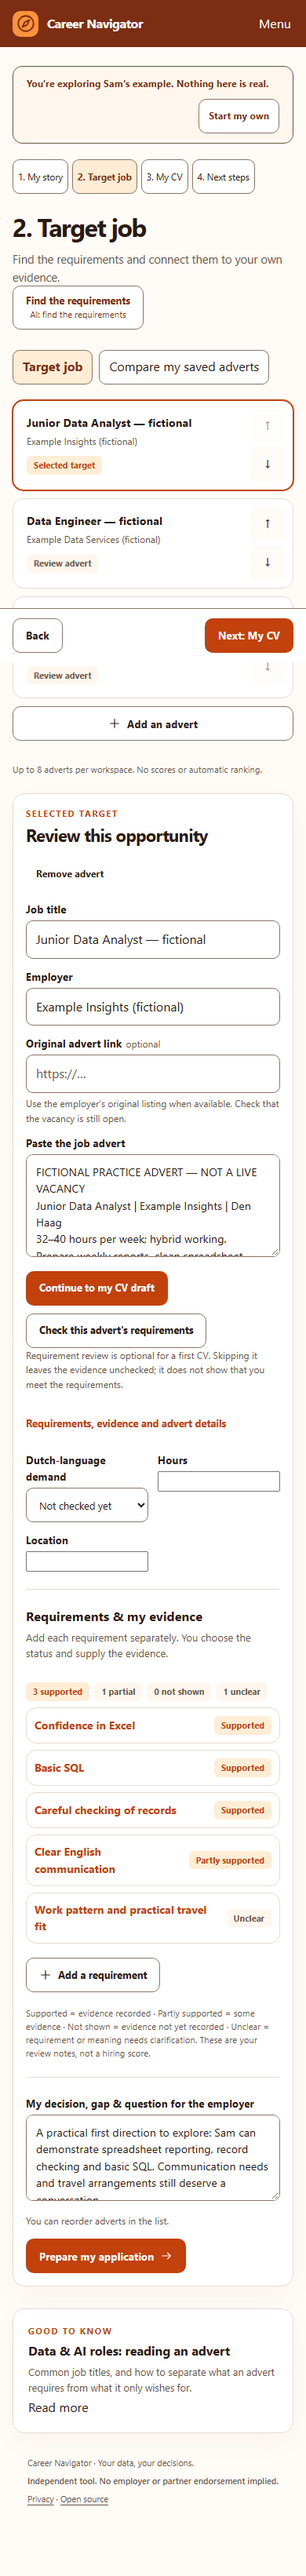
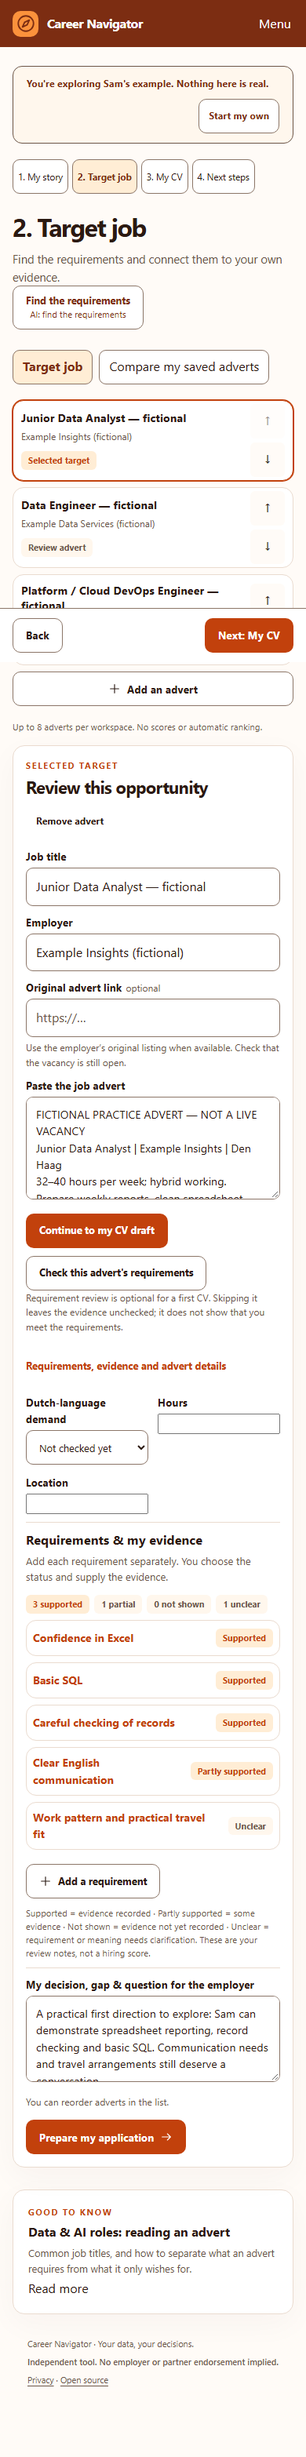
Keep collapsed advert within four screens across system fonts

diff --git a/src/styles/app.css b/src/styles/app.css
@@ -114,10 +114,18 @@ progress{inline-size:100%;block-size:10px;accent-color:var(--primary)}
   .journey-ai{position:static}
   .journey-ai .btn{width:auto}
   .job-layout .card{padding:16px}
-  .job-layout .fields{gap:12px}
+  .job-layout{gap:14px}
+  .job-layout .job-list{gap:8px}
+  .job-layout .job-select{padding:10px}
+  .job-layout .job-rank{padding:4px 10px}
+  .job-layout .fields{gap:10px}
   .job-layout .field{gap:4px}
   .job-layout .facts-row .field{margin-top:0}
-  .job-layout .card-head{margin-bottom:12px}
+  .job-layout .card-head{margin-bottom:12px;gap:8px}
+  .job-layout .card-head .actions:empty{display:none}
+  .job-layout .divider{margin-block:10px}
+  .job-layout .source-note{margin-top:10px}
+  .job-layout .requirement>summary{padding:8px}
   .job-layout .form-footer{margin-top:16px}
   .main-wrap>.journey-footer{position:sticky;bottom:0;inset-inline:auto;margin:0;padding:12px 16px calc(12px + env(safe-area-inset-bottom));background:var(--white);border-top:1px solid var(--control);z-index:15}
   .notice{bottom:calc(var(--journey-bar-height, 0px) + 12px);max-width:calc(100vw - 32px)}

diff --git a/docs/reports/v1-polish/README.md b/docs/reports/v1-polish/README.md
@@ -13,7 +13,7 @@ not a real-phone check or a human usability study. No manual release-checklist i
 Detail views: [collapsed requirements](target-job-requirements.png), [review and exports](my-cv-exports.png).
 The sticky bar appears at the original viewport boundary in full-page captures; use viewport shots to judge it.
 
-Sam's Target job page measures **3,283 px**, below four 844 px screens (3,376 px), with all requirement rows
+Sam's Target job page measures **3,132 px**, below four 844 px screens (3,376 px), with all requirement rows
 collapsed and the evidence section open. Opening one row closes the previous row; its text, status, evidence
 and next-step values remain unchanged. The automated test checks all values before and after expansion.
 

diff --git a/docs/STATUS.md b/docs/STATUS.md
@@ -17,7 +17,7 @@ final suite and CI results are recorded on the PR. Dutch coverage: 713/713 strin
 G1–G13, the G5 fixture, dependency manifests and AGENTS/CLAUDE remain unchanged.
 
 **Agent visual check:** [390 px screenshots](reports/v1-polish/README.md). Sam's collapsed Target job page
-is 3,283 px high at 390 × 844, below four screens (3,376 px).
+is 3,132 px high at 390 × 844, below four screens (3,376 px).
 
 **Verified by a person:** none. Real phones, fluent Dutch review, Word/LibreOffice rendering and the five-user
 pilot remain pending. No release-checklist items were ticked, and no release tag or repository setting changed.
